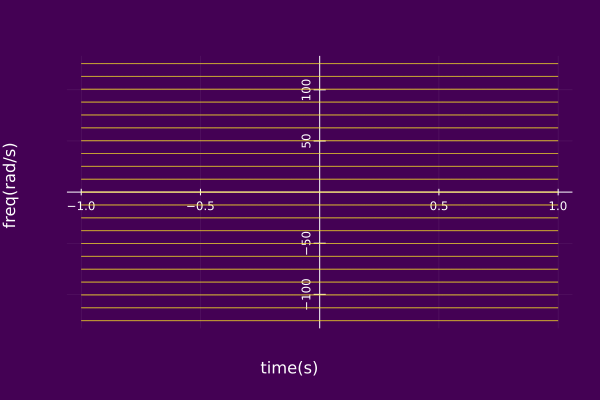
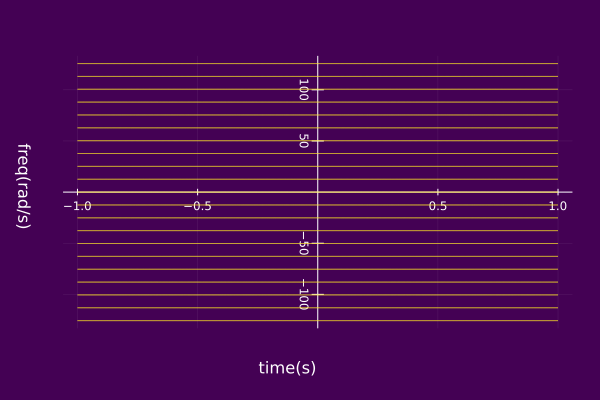
fixed fourier series documents code for plotting

diff --git a/docs/src/basicModels/Fourier.md b/docs/src/basicModels/Fourier.md
@@ -62,7 +62,7 @@ aₖ(k) = 1/T
 kInds = -10:10
 𝑆 = fourierSeries(T, aₖ, kInds)
 z = AMFMmodel(𝑆)
-plot(𝑆; timeaxis=-1.0:0.001:1.0)
+plot(𝑆, timeaxis=-1.0:0.001:1.0)
 ```
 ![](https://raw.githubusercontent.com/NMSU-ISA/ISA/master/docs/src/assets/IS_exFourier2.png)
 
@@ -73,11 +73,8 @@ aₖ(k) = 1/T
 kInds = -10:10
 𝑆 = fourierSeries(T, aₖ, kInds)
 z = AMFMmodel(𝑆)
-plot(𝑆; timeaxis=-1.0:0.001:1.0)
-plot!( camera=(0,90),
-       zlabel="", zticks=:false,
-       left_margin=15Plots.mm, margin=5Plots.mm,
-       yrotation = 90, ymirror=true)
+plot(𝑆, timeaxis=-1.0:0.001:1.0, view="TF",
+     left_margin=15Plots.mm, margin=5Plots.mm)
 ```
 ![](https://raw.githubusercontent.com/NMSU-ISA/ISA/master/docs/src/assets/IS_exFourier3.png)
 
@@ -120,7 +117,7 @@ aₖ(k) = ifelse( k==0, 1/2, sin(k*π/2)/(k*π) )
 kInds = -10:10
 𝑆 = fourierSeries(T, aₖ, kInds)
 z = AMFMmodel(𝑆)
-plot(𝑆; timeaxis=-1.0:0.001:1.0)
+plot(𝑆, timeaxis=-1.0:0.001:1.0)
 ```
 ![](https://raw.githubusercontent.com/NMSU-ISA/ISA/master/docs/src/assets/IS_exFourier5.png)
 
@@ -132,11 +129,7 @@ aₖ(k) = ifelse( k==0, 1/2, sin(k*π/2)/(k*π) )
 kInds = -10:10
 𝑆 = fourierSeries(T, aₖ, kInds)
 z = AMFMmodel(𝑆)
-plot(𝑆; timeaxis=-1.0:0.001:1.0)
-plot!( camera=(0,90),
-       zlabel="", zticks=:false,
-       left_margin=15Plots.mm, margin=5Plots.mm,
-       yrotation = 90, ymirror=true)
+plot(𝑆, timeaxis=-1.0:0.001:1.0, view="TF", left_margin=10Plots.mm)
 ```
 ![](https://raw.githubusercontent.com/NMSU-ISA/ISA/master/docs/src/assets/IS_exFourier6.png)
 
@@ -190,7 +183,7 @@ exp(-j*k*2π)+exp(j*4π/3)*exp(-j*k*4π/3))/(j*k*2π) )
 kInds = -150:150
 𝑆 = fourierSeries(T, aₖ, kInds)
 z = AMFMmodel(𝑆)
-plot(𝑆; timeaxis=-1.0:0.001:1.0)
+plot(𝑆, timeaxis=-1.0:0.001:1.0)
 ```
 ![](https://raw.githubusercontent.com/NMSU-ISA/ISA/master/docs/src/assets/IS_exFourier8.png)
 
@@ -205,10 +198,7 @@ exp(-j*k*2π)+exp(j*4π/3)*exp(-j*k*4π/3))/(j*k*2π) )
 kInds = -150:150
 𝑆 = fourierSeries(T, aₖ, kInds)
 z = AMFMmodel(𝑆)
-plot(𝑆; timeaxis=-1.0:0.001:1.0)
-plot!( camera=(0,90),
-       zlabel="", zticks=:false,
-       left_margin=15Plots.mm, margin=5Plots.mm,
-       yrotation = 90, ymirror=true)
+plot(𝑆, timeaxis=-1.0:0.001:1.0)
+plot(𝑆, timeaxis=-1.0:0.001:1.0, view="TF", left_margin=10Plots.mm)
 ```
 ![](https://raw.githubusercontent.com/NMSU-ISA/ISA/master/docs/src/assets/IS_exFourier9.png)
